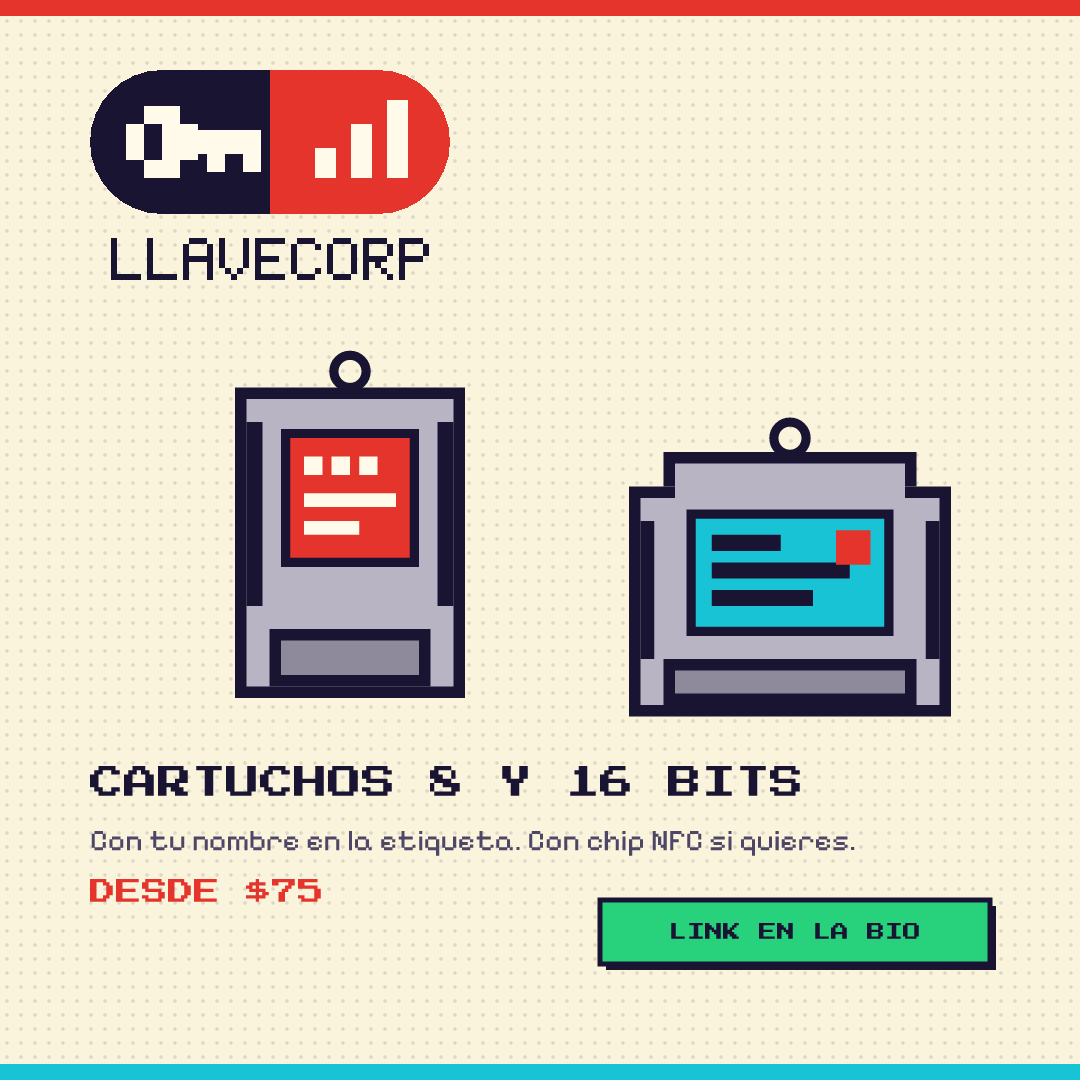
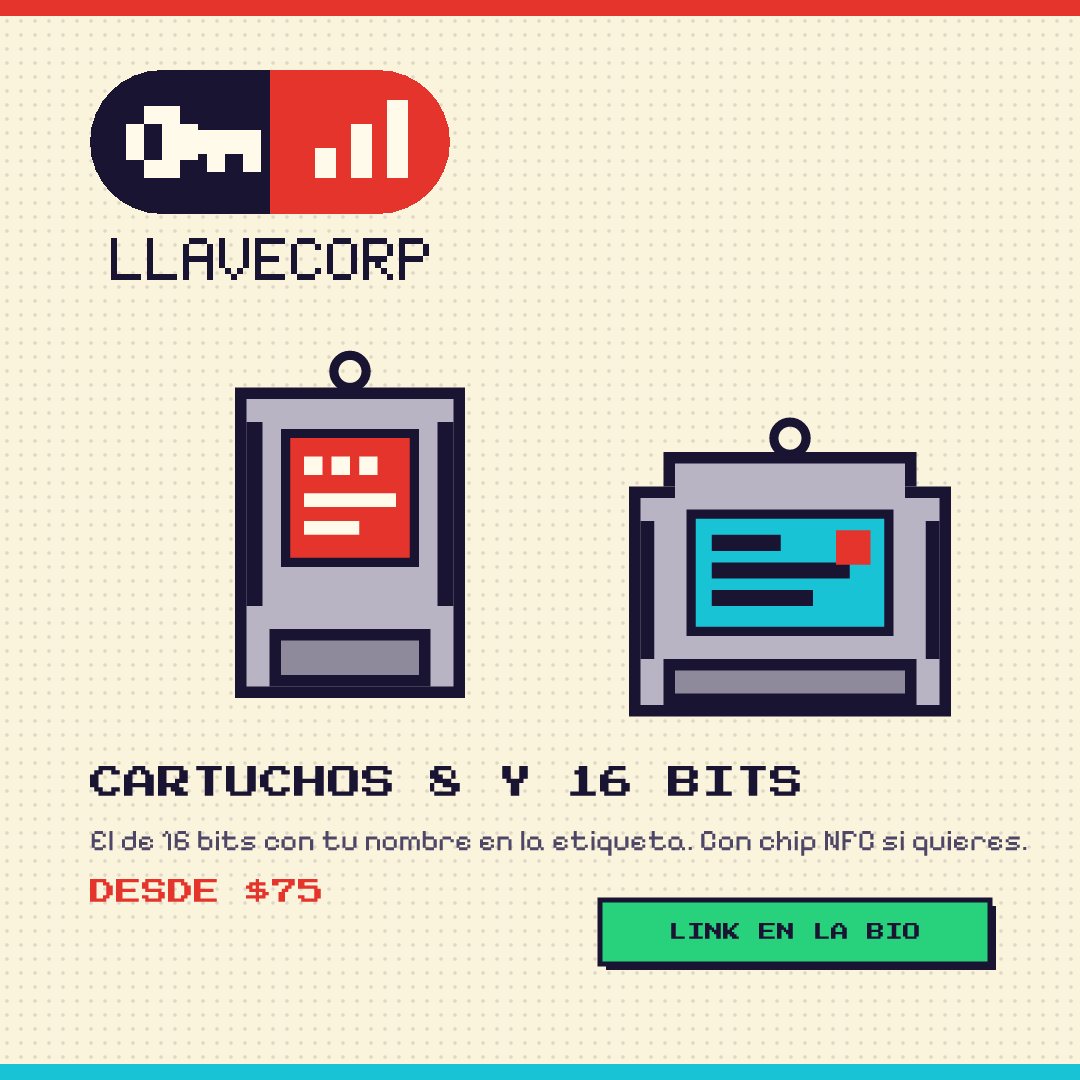
Entregas: domicilio $30 con menos de cinco piezas, tiempos; cartucho 8 bits sin nombre; dígitos legibles

Changed region(s): [[0.0917, 0.7639, 0.9472, 0.7944]]

diff --git a/src/styles/base.css b/src/styles/base.css
@@ -16,6 +16,17 @@
   unicode-range: U+0000-00FF, U+0131, U+0152-0153, U+02BB-02BC, U+02C6, U+02DA, U+02DC, U+0304, U+0308, U+0329, U+2000-206F, U+20AC, U+2122, U+2191, U+2193, U+2212, U+2215, U+FEFF, U+FFFD;
 }
 
+/* Solo los dígitos del texto corrido usan Press Start 2P: en Pixelify Sans el 5 y el 8 se confunden. */
+@font-face {
+  font-family: 'Digitos Pixel';
+  font-style: normal;
+  font-weight: 400 700;
+  font-display: swap;
+  src: url('/fonts/press-start-2p-latin.woff2') format('woff2');
+  unicode-range: U+0030-0039;
+  size-adjust: 74%;
+}
+
 *, *::before, *::after { box-sizing: border-box; }
 
 html { -webkit-text-size-adjust: 100%; scroll-behavior: smooth; }

diff --git a/tests/dist.test.ts b/tests/dist.test.ts
@@ -63,6 +63,9 @@ describe.skipIf(!hayDist)('etapa 3: conversión', () => {
     const html = leer('index.html');
     for (const id of ['promo', 'regalos', 'entregas']) expect(html).toContain(`id="${id}"`);
     expect(html).toContain('Soriana Colosio');
+    expect(html).toContain('cinco piezas');
+    expect(html).toContain('$30');
+    expect(html).toContain('uno a tres días');
     for (const id of ['vende', 'taller', 'capsula', 'coleccionista']) expect(html).not.toContain(`id="${id}"`);
     expect(html).toContain('Sello 5: llavero con tu nombre');
     expect(html).toContain('pedidos hechos desde esta página');

diff --git a/src/styles/tokens.css b/src/styles/tokens.css
@@ -4,7 +4,7 @@
   color-scheme: light dark;
 
   --fuente-pixel: 'Press Start 2P', 'Courier New', monospace;
-  --fuente-texto: 'Pixelify Sans', 'Segoe UI', system-ui, sans-serif;
+  --fuente-texto: 'Digitos Pixel', 'Pixelify Sans', 'Segoe UI', system-ui, sans-serif;
 
   --fondo: #fbf4dc;            /* papel de revista de historietas */
   --superficie: #fffaea;

diff --git a/marketing/redes/textos.md b/marketing/redes/textos.md
@@ -43,7 +43,7 @@ Promoción de introducción, puede terminar sin previo aviso.
 
 **cartuchos-1080x1080**
 ```
-Llegaron los cartuchos 🎮 8 bits y 16 bits, impresos en 3D, con tu nombre o tu juego favorito en la etiqueta. Con chip NFC si quieres que además abra tu WhatsApp o tu Wi-Fi.
+Llegaron los cartuchos 🎮 8 bits y 16 bits, impresos en 3D. El de 16 bits lleva tu nombre o tu juego favorito en la etiqueta. Con chip NFC si quieres que además abra tu WhatsApp o tu Wi-Fi.
 Desde $75. Pide por WhatsApp desde la página (link en la bio).
 #llaveros #cartucho #retrogaming #monterrey #impresion3d #pixelart
 ```
